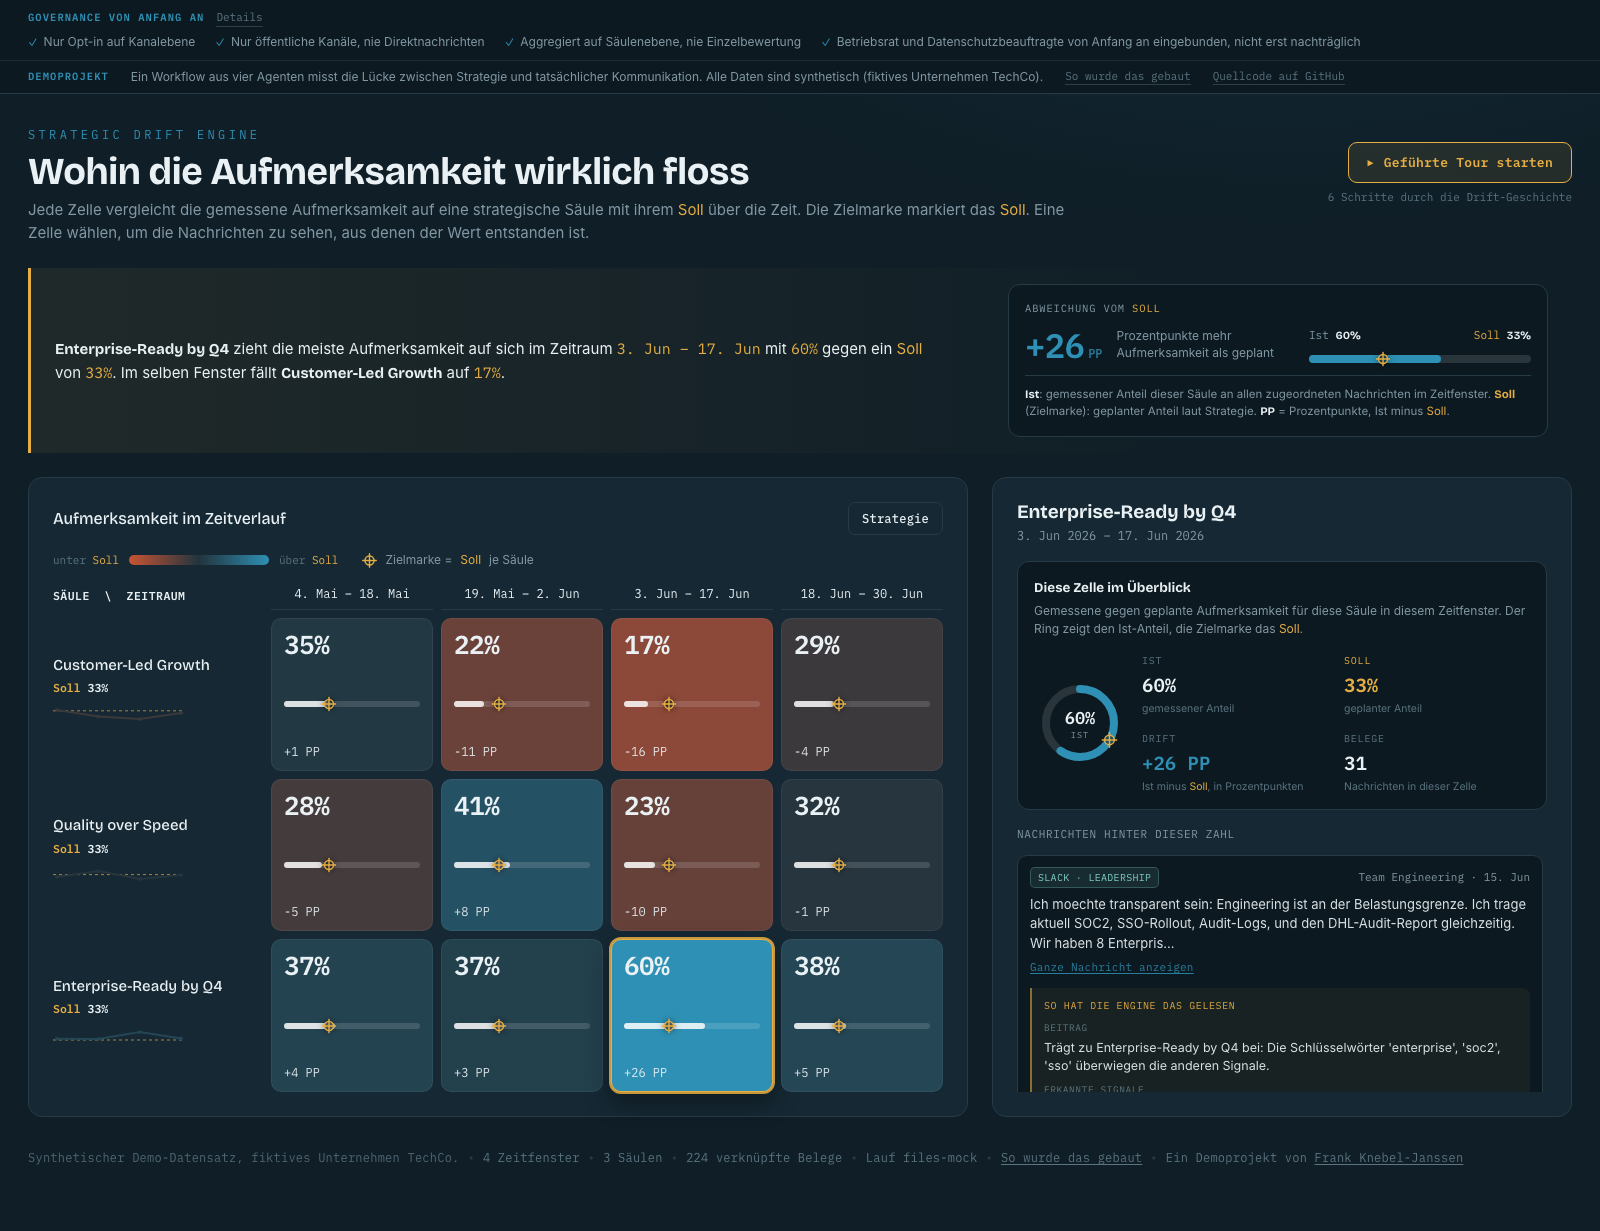
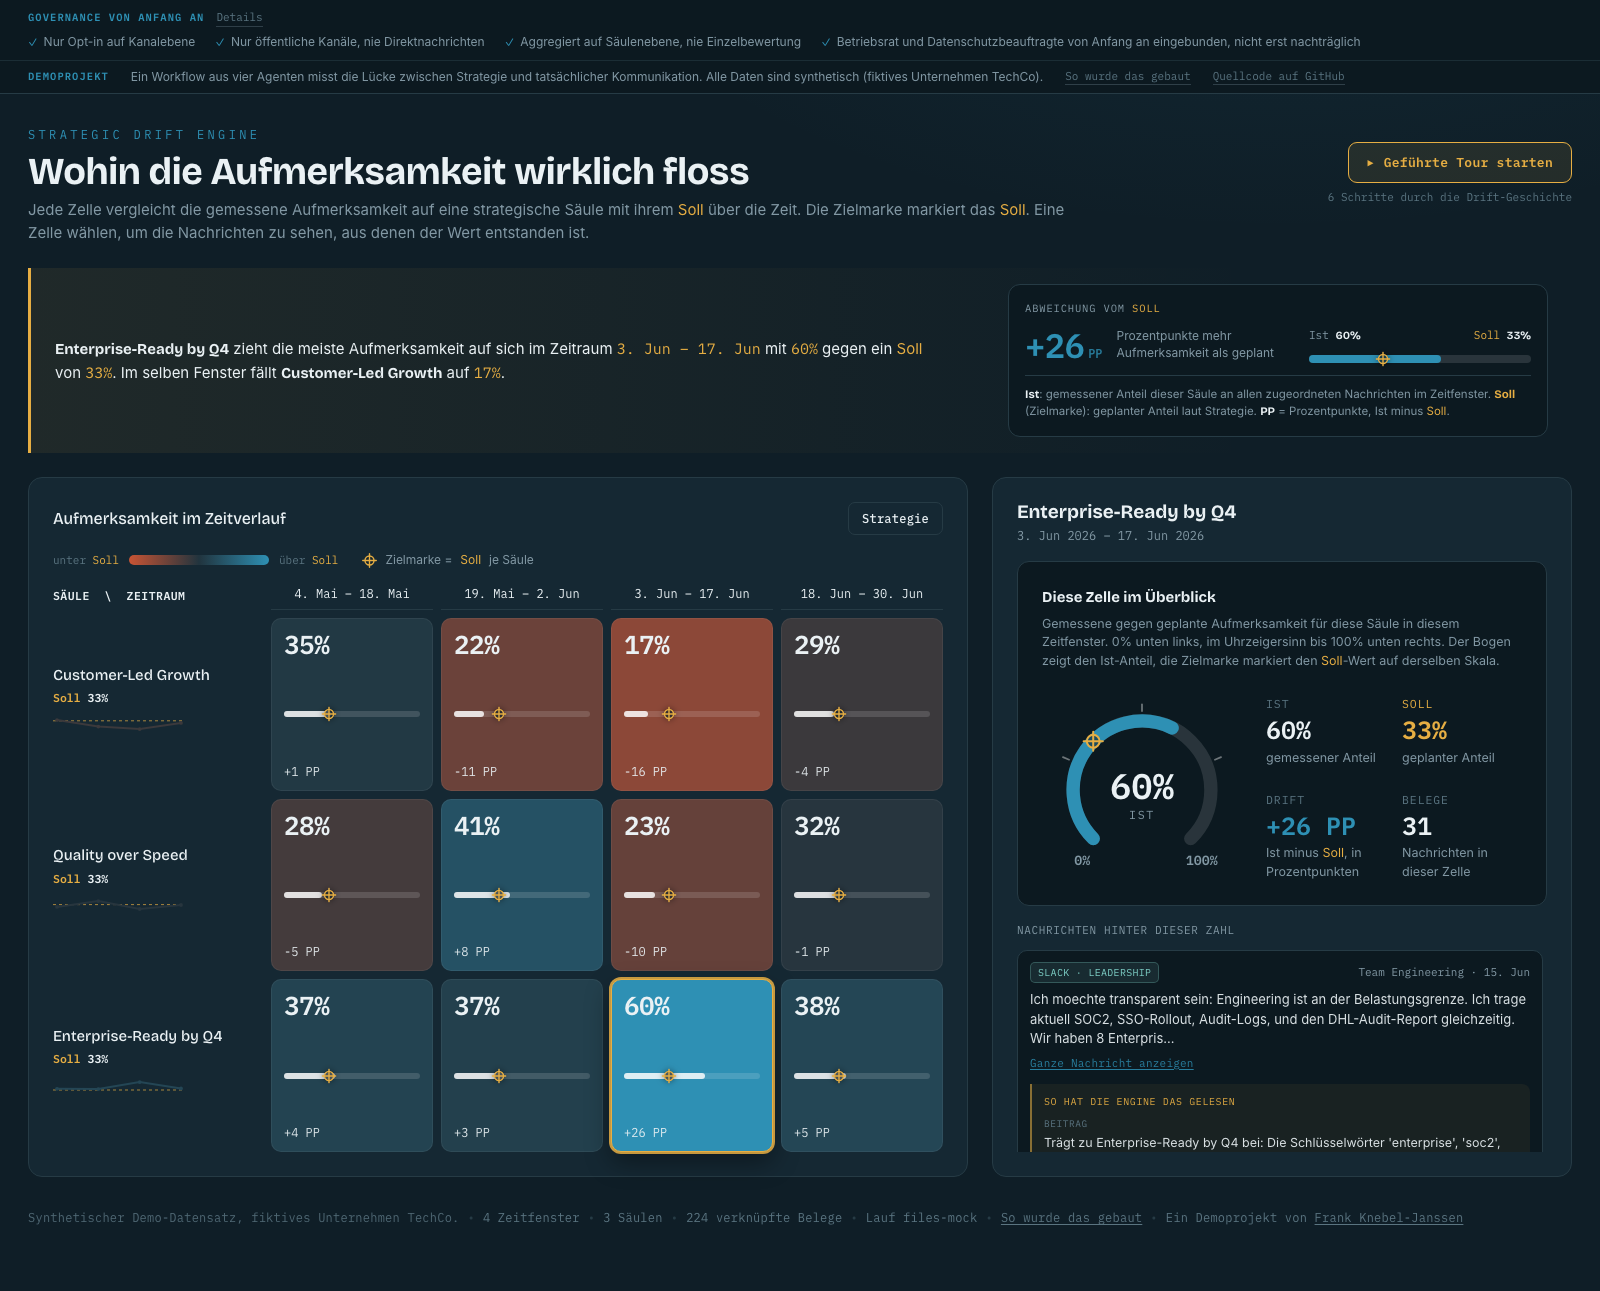
fix(frontend): Ring zu Potentiometer-Skala umgebaut, 0/100 beschriftet, Werte vergroessert

diff --git a/docs/index.html b/docs/index.html
@@ -84,7 +84,7 @@ h1{font-family:var(--disp); font-weight:700; font-size:clamp(26px,3.2vw,38px);
 .reading .r-num{font-family:var(--mono); color:var(--amber)}
 
 .board{display:grid; grid-template-columns:minmax(0,1fr) 580px; gap:var(--s3); margin-top:var(--s3);
-  align-items:stretch; min-height:clamp(560px, calc(100vh - 360px), 900px)}
+  align-items:stretch; min-height:clamp(620px, calc(100vh - 300px), 980px)}
 @media(max-width:1280px){.board{grid-template-columns:minmax(0,1fr) 440px}}
 @media(max-width:900px){
   .board{grid-template-columns:1fr; min-height:0}
@@ -203,16 +203,16 @@ h1{font-family:var(--disp); font-weight:700; font-size:clamp(26px,3.2vw,38px);
 .drill-in{position:absolute; inset:0; padding:var(--s3); display:flex; flex-direction:column; min-height:0}
 .drill-head .d-pillar{font-family:var(--disp); font-weight:700; font-size:19px; line-height:1.1}
 .drill-head .d-win{font-family:var(--mono); font-size:12px; color:var(--muted); margin-top:4px}
-.d-box{background:var(--panel2); border:1px solid var(--line); border-radius:12px; padding:var(--s2); margin:var(--s2) 0}
-.d-box-title{font-family:var(--disp); font-weight:600; font-size:13.5px}
-.d-box-sub{font-size:12px; color:var(--muted); margin:4px 0 var(--s2); line-height:1.45}
-.d-box-body{display:flex; gap:var(--s2); align-items:center}
-.d-ring{width:92px; height:92px; flex:0 0 auto}
-.d-stats{display:grid; grid-template-columns:1fr 1fr; gap:var(--s2); flex:1; min-width:0}
+.d-box{background:var(--panel2); border:1px solid var(--line); border-radius:12px; padding:var(--s3); margin:var(--s2) 0}
+.d-box-title{font-family:var(--disp); font-weight:600; font-size:15px}
+.d-box-sub{font-size:12.5px; color:var(--muted); margin:6px 0 var(--s3); line-height:1.5}
+.d-box-body{display:flex; gap:var(--s3); align-items:center}
+.d-ring{width:200px; height:auto; flex:0 0 auto}
+.d-stats{display:grid; grid-template-columns:1fr 1fr; gap:var(--s3) var(--s2); flex:1; min-width:0}
 .d-stat{cursor:help}
-.d-stat .k{font-family:var(--mono); font-size:10px; letter-spacing:.08em; text-transform:uppercase; color:var(--faint)}
-.d-stat .v{font-family:var(--mono); font-size:19px; font-weight:600; margin-top:3px}
-.d-stat .s{font-size:10.5px; color:var(--faint); margin-top:2px; line-height:1.3}
+.d-stat .k{font-family:var(--mono); font-size:11.5px; letter-spacing:.08em; text-transform:uppercase; color:var(--faint)}
+.d-stat .v{font-family:var(--mono); font-size:25px; font-weight:600; margin-top:4px; line-height:1.1}
+.d-stat .s{font-size:12.5px; color:var(--muted); margin-top:5px; line-height:1.45}
 .d-evhead{font-family:var(--mono); font-size:11px; letter-spacing:.06em; text-transform:uppercase; color:var(--muted); margin-bottom:12px}
 .ev-list{display:flex; flex-direction:column; gap:12px; flex:1; min-height:0; overflow-y:auto; padding-right:4px}
 .ev-list::-webkit-scrollbar{width:8px}
@@ -378,16 +378,27 @@ function colorSoll(root){
   });
 }
 function ring(c){
-  const cx=46, cy=46, R=34, C=2*Math.PI*R;
-  const ist=Math.max(0,Math.min(1,c.ist_anteil)), soll=Math.max(0,Math.min(1,c.soll_anteil));
+  // Potentiometer-Skala: 270 Grad, Oeffnung unten. Winkel in Grad im Uhrzeigersinn ab 12 Uhr:
+  // 0% = 225 Grad (unten links), 50% = 360 Grad (oben), 100% = 495 Grad (unten rechts).
+  const cx=90, cy=80, R=62, SW=12;
+  const clamp=v=>Math.max(0,Math.min(1,v));
+  const ist=clamp(c.ist_anteil), soll=clamp(c.soll_anteil);
   const col = c.drift<0 ? "#C85434" : "#2E90B4";
-  const a=(soll*360-90)*Math.PI/180, tx=cx+R*Math.cos(a)-8, ty=cy+R*Math.sin(a)-8;
-  return '<svg class="d-ring" viewBox="0 0 92 92" role="img" aria-label="Ist '+Math.round(ist*100)+' Prozent, Soll '+Math.round(soll*100)+' Prozent">'+
-    '<circle cx="'+cx+'" cy="'+cy+'" r="'+R+'" fill="none" stroke="rgba(255,255,255,.12)" stroke-width="8"/>'+
-    '<circle cx="'+cx+'" cy="'+cy+'" r="'+R+'" fill="none" stroke="'+col+'" stroke-width="8" stroke-linecap="round" stroke-dasharray="'+(C*ist)+' '+C+'" transform="rotate(-90 '+cx+' '+cy+')"/>'+
-    '<g transform="translate('+tx+' '+ty+')">'+TGT_INNER+'</g>'+
-    '<text x="'+cx+'" y="'+(cy+1)+'" text-anchor="middle" font-family="IBM Plex Mono, monospace" font-size="17" font-weight="600" fill="#EAF1F4">'+Math.round(ist*100)+'%</text>'+
-    '<text x="'+cx+'" y="'+(cy+15)+'" text-anchor="middle" font-family="IBM Plex Mono, monospace" font-size="8.5" letter-spacing="1" fill="#8298A4">IST</text></svg>';
+  const ang = f => (225 + 270*f)*Math.PI/180;
+  const pt = (f, r) => [cx + r*Math.sin(ang(f)), cy - r*Math.cos(ang(f))];
+  const arc = f => {const a=pt(0,R), b=pt(f,R); return "M"+a[0].toFixed(2)+" "+a[1].toFixed(2)+" A"+R+" "+R+" 0 "+(270*f>180?1:0)+" 1 "+b[0].toFixed(2)+" "+b[1].toFixed(2);};
+  const ticks = [0.25,0.5,0.75].map(f=>{const a=pt(f,R+SW/2+3), b=pt(f,R+SW/2+9);
+    return '<line x1="'+a[0].toFixed(2)+'" y1="'+a[1].toFixed(2)+'" x2="'+b[0].toFixed(2)+'" y2="'+b[1].toFixed(2)+'" stroke="rgba(255,255,255,.4)" stroke-width="1.6" stroke-linecap="round"/>';}).join("");
+  const s0=pt(0,R), s1=pt(1,R), m=pt(soll,R);
+  const lab = (x,y,t)=>'<text x="'+x.toFixed(1)+'" y="'+y.toFixed(1)+'" text-anchor="middle" font-family="IBM Plex Mono, monospace" font-size="12" font-weight="600" fill="#8298A4">'+t+'</text>';
+  return '<svg class="d-ring" viewBox="0 0 180 156" role="img" aria-label="Ist '+Math.round(ist*100)+' Prozent, Soll '+Math.round(soll*100)+' Prozent, Skala 0 bis 100 Prozent">'+
+    '<path d="'+arc(1)+'" fill="none" stroke="rgba(255,255,255,.12)" stroke-width="'+SW+'" stroke-linecap="round"/>'+
+    (ist>0.004 ? '<path d="'+arc(ist)+'" fill="none" stroke="'+col+'" stroke-width="'+SW+'" stroke-linecap="round"/>' : '')+
+    ticks+
+    '<g transform="translate('+m[0].toFixed(2)+' '+m[1].toFixed(2)+') scale(1.2) translate(-8 -8)">'+TGT_INNER+'</g>'+
+    lab(s0[0]-10, s0[1]+24, "0%")+lab(s1[0]+10, s1[1]+24, "100%")+
+    '<text x="'+cx+'" y="'+(cy+8)+'" text-anchor="middle" font-family="IBM Plex Mono, monospace" font-size="32" font-weight="600" fill="#EAF1F4">'+Math.round(ist*100)+'%</text>'+
+    '<text x="'+cx+'" y="'+(cy+26)+'" text-anchor="middle" font-family="IBM Plex Mono, monospace" font-size="10.5" letter-spacing="1.5" fill="#8298A4">IST</text></svg>';
 }
 
 const MON = ["Jan","Feb","Mrz","Apr","Mai","Jun","Jul","Aug","Sep","Okt","Nov","Dez"];
@@ -589,7 +600,7 @@ function renderDrill(wi, pkey){
       '<div class="d-win">'+fdatefull(w.start)+' – '+fdatefull(w.end)+'</div></div>'+
     '<div class="d-box">'+
       '<div class="d-box-title">Diese Zelle im Überblick</div>'+
-      '<div class="d-box-sub">Gemessene gegen geplante Aufmerksamkeit für diese Säule in diesem Zeitfenster. Der Ring zeigt den Ist-Anteil, die Zielmarke das Soll.</div>'+
+      '<div class="d-box-sub">Gemessene gegen geplante Aufmerksamkeit für diese Säule in diesem Zeitfenster. 0% unten links, im Uhrzeigersinn bis 100% unten rechts. Der Bogen zeigt den Ist-Anteil, die Zielmarke markiert den Soll-Wert auf derselben Skala.</div>'+
       '<div class="d-box-body">'+ring(c)+
         '<div class="d-stats">'+
           '<div class="d-stat" title="Ist: Anteil der zugeordneten Nachrichten dieses Zeitfensters, der auf diese Säule entfällt."><div class="k">Ist</div><div class="v">'+pct(c.ist_anteil)+'</div><div class="s">gemessener Anteil</div></div>'+

diff --git a/docs/build_frontend.py b/docs/build_frontend.py
@@ -106,7 +106,7 @@ h1{font-family:var(--disp); font-weight:700; font-size:clamp(26px,3.2vw,38px);
 .reading .r-num{font-family:var(--mono); color:var(--amber)}
 
 .board{display:grid; grid-template-columns:minmax(0,1fr) 580px; gap:var(--s3); margin-top:var(--s3);
-  align-items:stretch; min-height:clamp(560px, calc(100vh - 360px), 900px)}
+  align-items:stretch; min-height:clamp(620px, calc(100vh - 300px), 980px)}
 @media(max-width:1280px){.board{grid-template-columns:minmax(0,1fr) 440px}}
 @media(max-width:900px){
   .board{grid-template-columns:1fr; min-height:0}
@@ -225,16 +225,16 @@ h1{font-family:var(--disp); font-weight:700; font-size:clamp(26px,3.2vw,38px);
 .drill-in{position:absolute; inset:0; padding:var(--s3); display:flex; flex-direction:column; min-height:0}
 .drill-head .d-pillar{font-family:var(--disp); font-weight:700; font-size:19px; line-height:1.1}
 .drill-head .d-win{font-family:var(--mono); font-size:12px; color:var(--muted); margin-top:4px}
-.d-box{background:var(--panel2); border:1px solid var(--line); border-radius:12px; padding:var(--s2); margin:var(--s2) 0}
-.d-box-title{font-family:var(--disp); font-weight:600; font-size:13.5px}
-.d-box-sub{font-size:12px; color:var(--muted); margin:4px 0 var(--s2); line-height:1.45}
-.d-box-body{display:flex; gap:var(--s2); align-items:center}
-.d-ring{width:92px; height:92px; flex:0 0 auto}
-.d-stats{display:grid; grid-template-columns:1fr 1fr; gap:var(--s2); flex:1; min-width:0}
+.d-box{background:var(--panel2); border:1px solid var(--line); border-radius:12px; padding:var(--s3); margin:var(--s2) 0}
+.d-box-title{font-family:var(--disp); font-weight:600; font-size:15px}
+.d-box-sub{font-size:12.5px; color:var(--muted); margin:6px 0 var(--s3); line-height:1.5}
+.d-box-body{display:flex; gap:var(--s3); align-items:center}
+.d-ring{width:200px; height:auto; flex:0 0 auto}
+.d-stats{display:grid; grid-template-columns:1fr 1fr; gap:var(--s3) var(--s2); flex:1; min-width:0}
 .d-stat{cursor:help}
-.d-stat .k{font-family:var(--mono); font-size:10px; letter-spacing:.08em; text-transform:uppercase; color:var(--faint)}
-.d-stat .v{font-family:var(--mono); font-size:19px; font-weight:600; margin-top:3px}
-.d-stat .s{font-size:10.5px; color:var(--faint); margin-top:2px; line-height:1.3}
+.d-stat .k{font-family:var(--mono); font-size:11.5px; letter-spacing:.08em; text-transform:uppercase; color:var(--faint)}
+.d-stat .v{font-family:var(--mono); font-size:25px; font-weight:600; margin-top:4px; line-height:1.1}
+.d-stat .s{font-size:12.5px; color:var(--muted); margin-top:5px; line-height:1.45}
 .d-evhead{font-family:var(--mono); font-size:11px; letter-spacing:.06em; text-transform:uppercase; color:var(--muted); margin-bottom:12px}
 .ev-list{display:flex; flex-direction:column; gap:12px; flex:1; min-height:0; overflow-y:auto; padding-right:4px}
 .ev-list::-webkit-scrollbar{width:8px}
@@ -400,16 +400,27 @@ function colorSoll(root){
   });
 }
 function ring(c){
-  const cx=46, cy=46, R=34, C=2*Math.PI*R;
-  const ist=Math.max(0,Math.min(1,c.ist_anteil)), soll=Math.max(0,Math.min(1,c.soll_anteil));
+  // Potentiometer-Skala: 270 Grad, Oeffnung unten. Winkel in Grad im Uhrzeigersinn ab 12 Uhr:
+  // 0% = 225 Grad (unten links), 50% = 360 Grad (oben), 100% = 495 Grad (unten rechts).
+  const cx=90, cy=80, R=62, SW=12;
+  const clamp=v=>Math.max(0,Math.min(1,v));
+  const ist=clamp(c.ist_anteil), soll=clamp(c.soll_anteil);
   const col = c.drift<0 ? "#C85434" : "#2E90B4";
-  const a=(soll*360-90)*Math.PI/180, tx=cx+R*Math.cos(a)-8, ty=cy+R*Math.sin(a)-8;
-  return '<svg class="d-ring" viewBox="0 0 92 92" role="img" aria-label="Ist '+Math.round(ist*100)+' Prozent, Soll '+Math.round(soll*100)+' Prozent">'+
-    '<circle cx="'+cx+'" cy="'+cy+'" r="'+R+'" fill="none" stroke="rgba(255,255,255,.12)" stroke-width="8"/>'+
-    '<circle cx="'+cx+'" cy="'+cy+'" r="'+R+'" fill="none" stroke="'+col+'" stroke-width="8" stroke-linecap="round" stroke-dasharray="'+(C*ist)+' '+C+'" transform="rotate(-90 '+cx+' '+cy+')"/>'+
-    '<g transform="translate('+tx+' '+ty+')">'+TGT_INNER+'</g>'+
-    '<text x="'+cx+'" y="'+(cy+1)+'" text-anchor="middle" font-family="IBM Plex Mono, monospace" font-size="17" font-weight="600" fill="#EAF1F4">'+Math.round(ist*100)+'%</text>'+
-    '<text x="'+cx+'" y="'+(cy+15)+'" text-anchor="middle" font-family="IBM Plex Mono, monospace" font-size="8.5" letter-spacing="1" fill="#8298A4">IST</text></svg>';
+  const ang = f => (225 + 270*f)*Math.PI/180;
+  const pt = (f, r) => [cx + r*Math.sin(ang(f)), cy - r*Math.cos(ang(f))];
+  const arc = f => {const a=pt(0,R), b=pt(f,R); return "M"+a[0].toFixed(2)+" "+a[1].toFixed(2)+" A"+R+" "+R+" 0 "+(270*f>180?1:0)+" 1 "+b[0].toFixed(2)+" "+b[1].toFixed(2);};
+  const ticks = [0.25,0.5,0.75].map(f=>{const a=pt(f,R+SW/2+3), b=pt(f,R+SW/2+9);
+    return '<line x1="'+a[0].toFixed(2)+'" y1="'+a[1].toFixed(2)+'" x2="'+b[0].toFixed(2)+'" y2="'+b[1].toFixed(2)+'" stroke="rgba(255,255,255,.4)" stroke-width="1.6" stroke-linecap="round"/>';}).join("");
+  const s0=pt(0,R), s1=pt(1,R), m=pt(soll,R);
+  const lab = (x,y,t)=>'<text x="'+x.toFixed(1)+'" y="'+y.toFixed(1)+'" text-anchor="middle" font-family="IBM Plex Mono, monospace" font-size="12" font-weight="600" fill="#8298A4">'+t+'</text>';
+  return '<svg class="d-ring" viewBox="0 0 180 156" role="img" aria-label="Ist '+Math.round(ist*100)+' Prozent, Soll '+Math.round(soll*100)+' Prozent, Skala 0 bis 100 Prozent">'+
+    '<path d="'+arc(1)+'" fill="none" stroke="rgba(255,255,255,.12)" stroke-width="'+SW+'" stroke-linecap="round"/>'+
+    (ist>0.004 ? '<path d="'+arc(ist)+'" fill="none" stroke="'+col+'" stroke-width="'+SW+'" stroke-linecap="round"/>' : '')+
+    ticks+
+    '<g transform="translate('+m[0].toFixed(2)+' '+m[1].toFixed(2)+') scale(1.2) translate(-8 -8)">'+TGT_INNER+'</g>'+
+    lab(s0[0]-10, s0[1]+24, "0%")+lab(s1[0]+10, s1[1]+24, "100%")+
+    '<text x="'+cx+'" y="'+(cy+8)+'" text-anchor="middle" font-family="IBM Plex Mono, monospace" font-size="32" font-weight="600" fill="#EAF1F4">'+Math.round(ist*100)+'%</text>'+
+    '<text x="'+cx+'" y="'+(cy+26)+'" text-anchor="middle" font-family="IBM Plex Mono, monospace" font-size="10.5" letter-spacing="1.5" fill="#8298A4">IST</text></svg>';
 }
 
 const MON = ["Jan","Feb","Mrz","Apr","Mai","Jun","Jul","Aug","Sep","Okt","Nov","Dez"];
@@ -611,7 +622,7 @@ function renderDrill(wi, pkey){
       '<div class="d-win">'+fdatefull(w.start)+' – '+fdatefull(w.end)+'</div></div>'+
     '<div class="d-box">'+
       '<div class="d-box-title">Diese Zelle im Überblick</div>'+
-      '<div class="d-box-sub">Gemessene gegen geplante Aufmerksamkeit für diese Säule in diesem Zeitfenster. Der Ring zeigt den Ist-Anteil, die Zielmarke das Soll.</div>'+
+      '<div class="d-box-sub">Gemessene gegen geplante Aufmerksamkeit für diese Säule in diesem Zeitfenster. 0% unten links, im Uhrzeigersinn bis 100% unten rechts. Der Bogen zeigt den Ist-Anteil, die Zielmarke markiert den Soll-Wert auf derselben Skala.</div>'+
       '<div class="d-box-body">'+ring(c)+
         '<div class="d-stats">'+
           '<div class="d-stat" title="Ist: Anteil der zugeordneten Nachrichten dieses Zeitfensters, der auf diese Säule entfällt."><div class="k">Ist</div><div class="v">'+pct(c.ist_anteil)+'</div><div class="s">gemessener Anteil</div></div>'+
